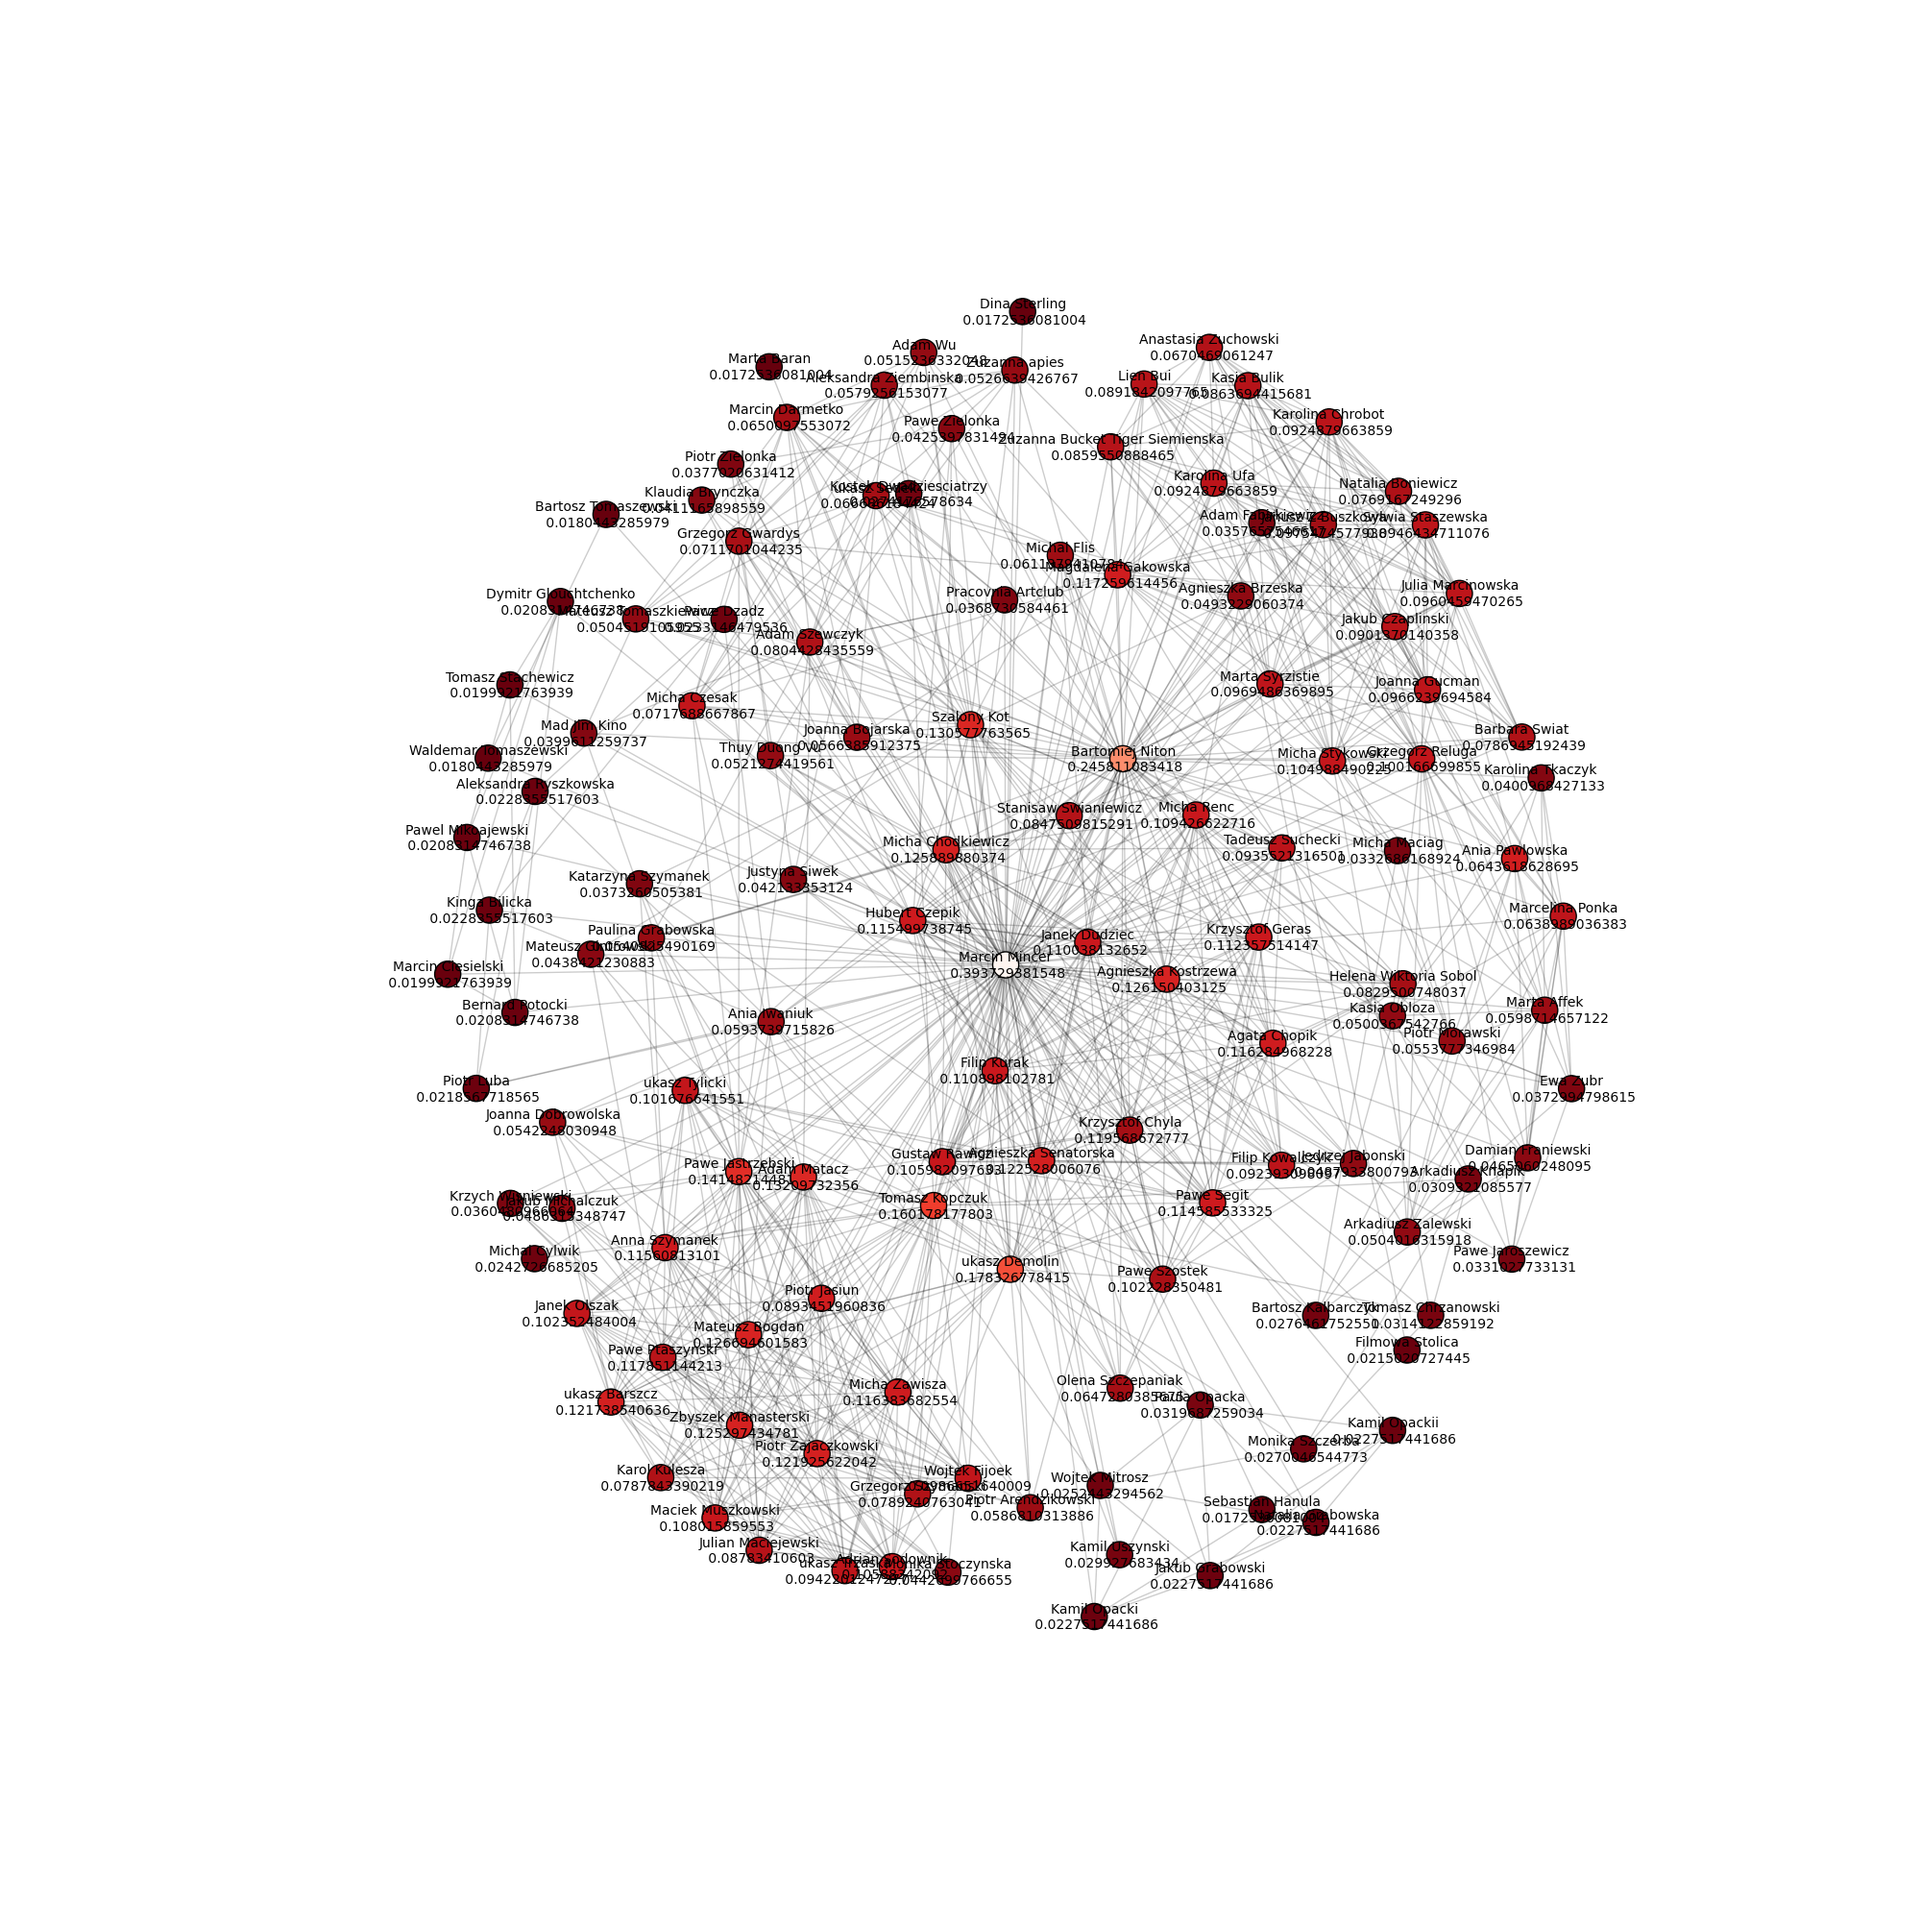
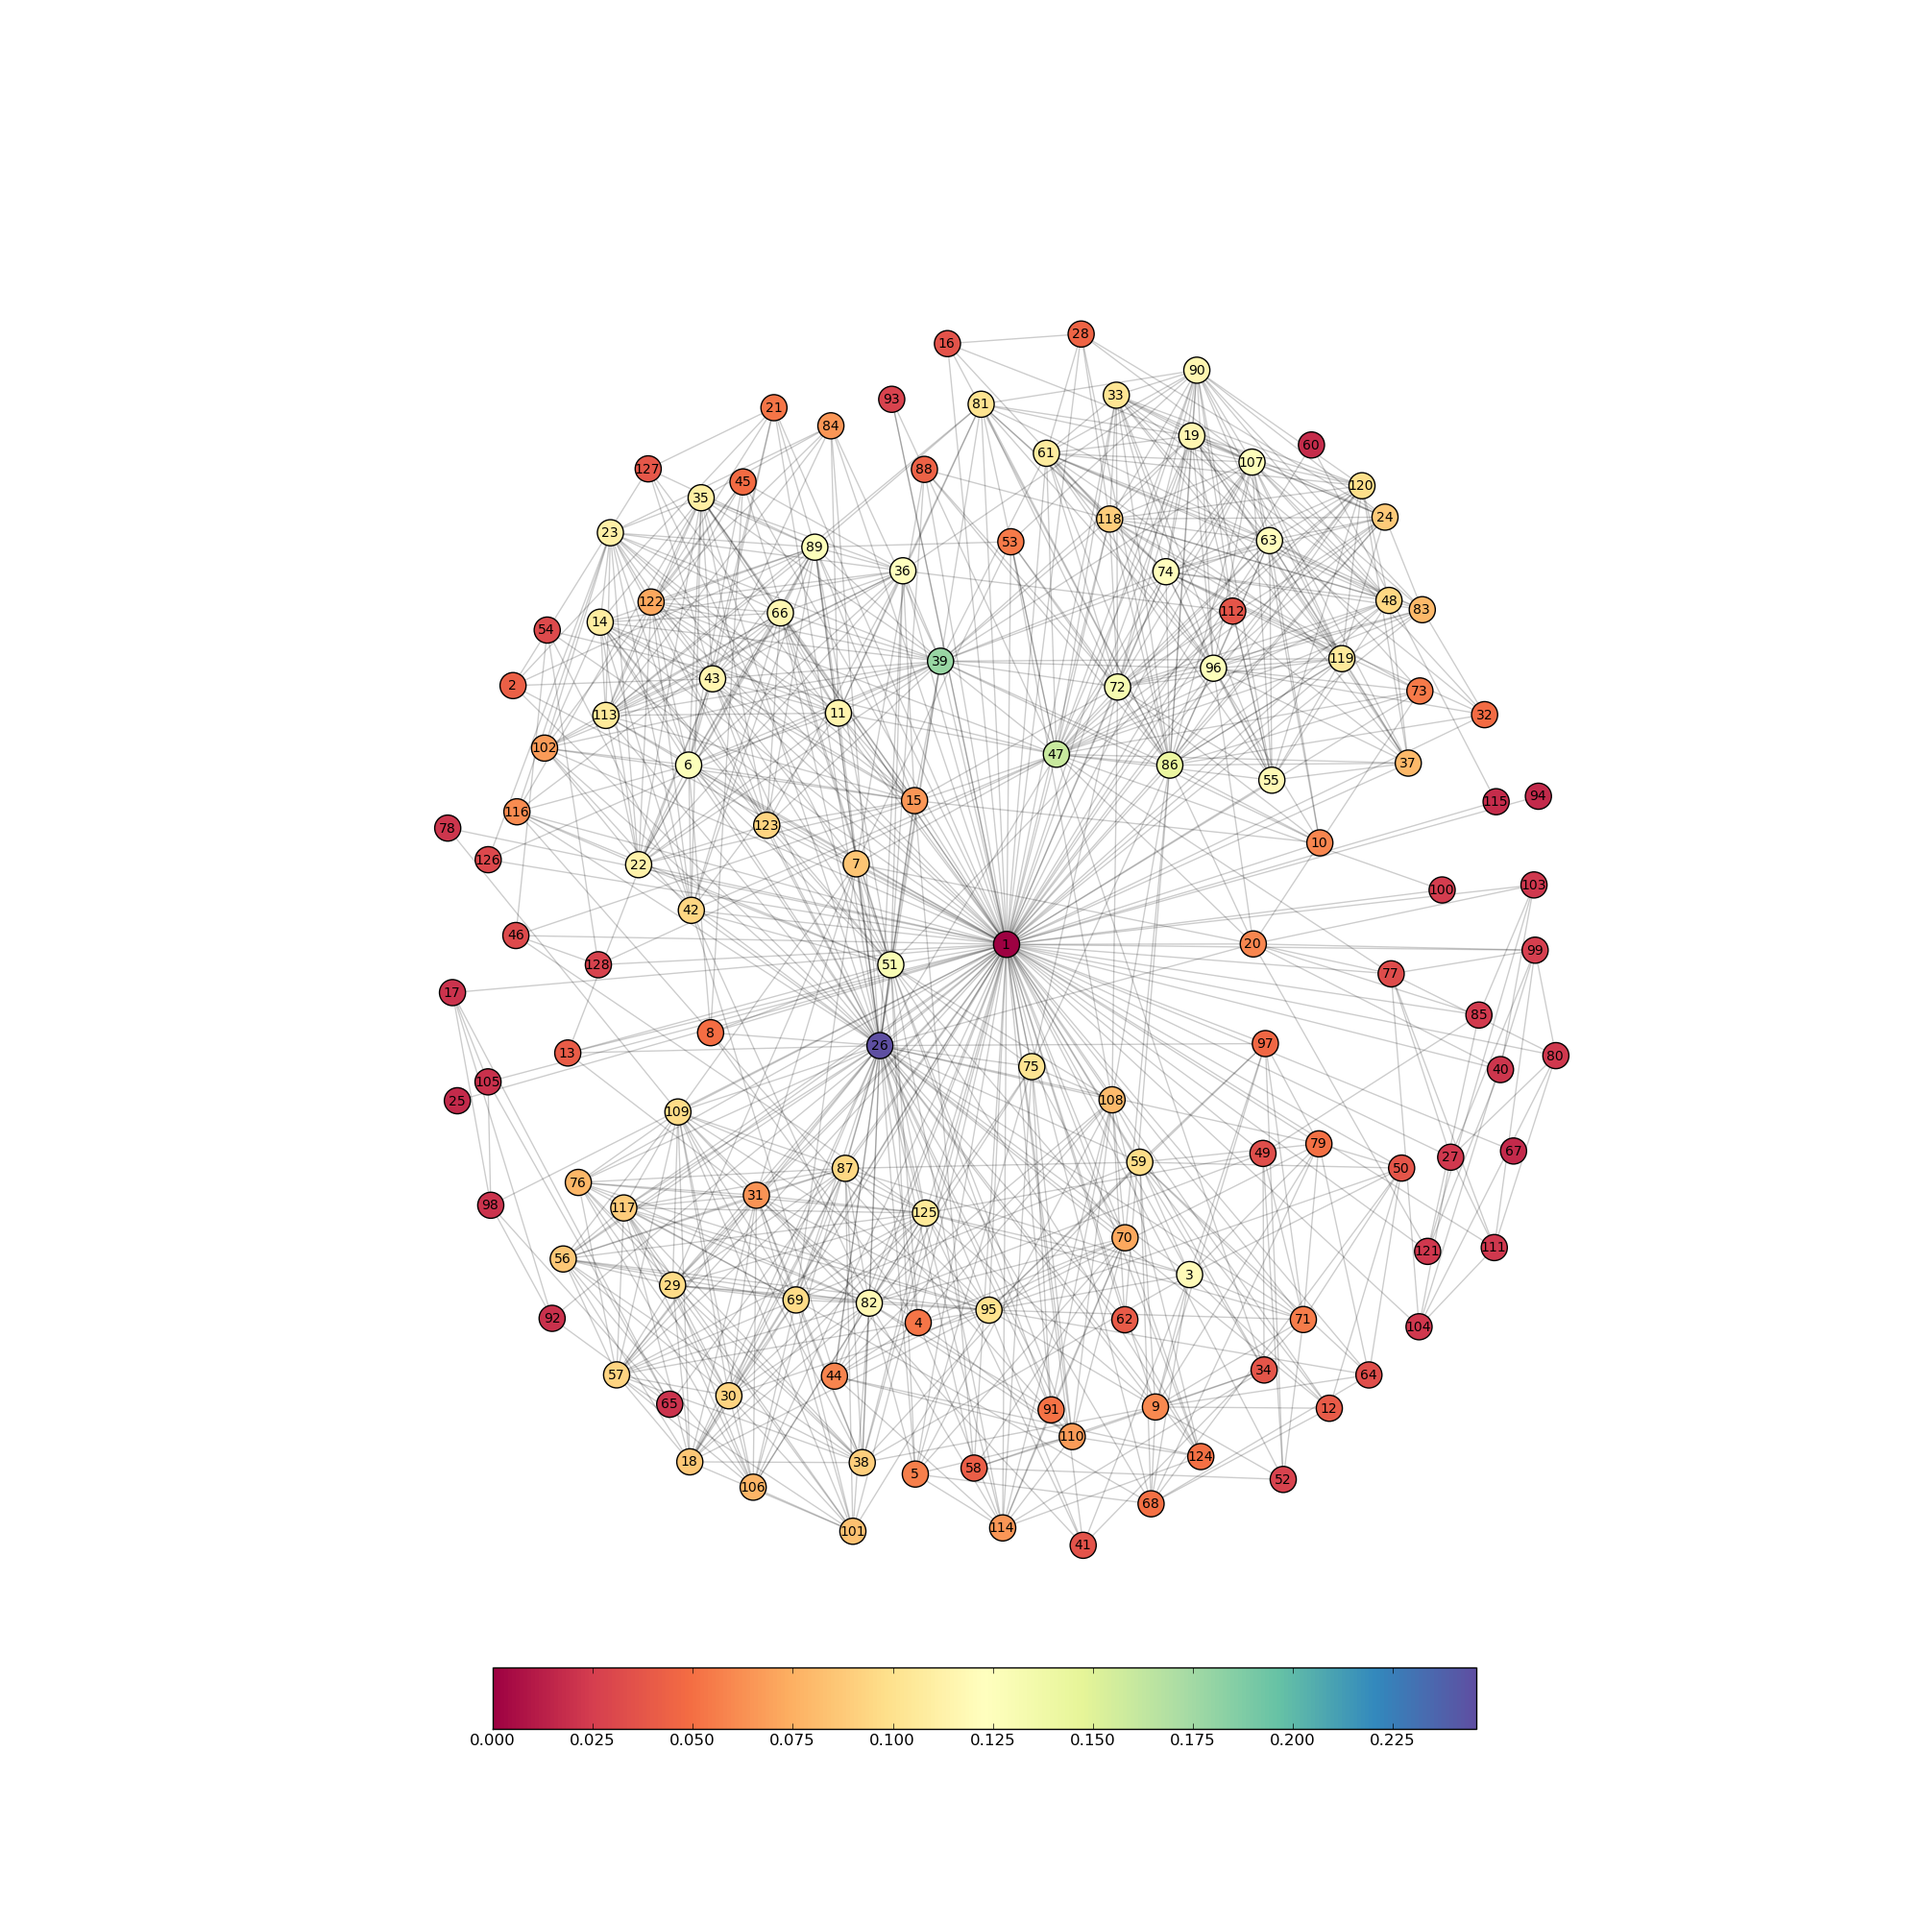
new pngs

Changed region(s): [[0.217, 0.155, 0.837, 0.93]]

diff --git a/src/thesis/fb.py b/src/thesis/fb.py
@@ -15,6 +15,7 @@ class Facebooker:
     
     graph = nx.Graph()
     myId = 0
+    labels = dict()
     
     def __init__(self):
         self.graph.add_node(self.myId, {'name': 'Marcin Mincer'})
@@ -42,6 +43,11 @@ class Facebooker:
         
     def loadGraph(self, filename = 'fb.gpickle'):
         self.graph = nx.read_gpickle(filename)
+        # make normal label numbers
+        i = 1
+        for node in self.graph:
+            self.labels[node] = i
+            i += 1 
         logger.debug("Graph loaded, edges: %d, nodes: %d" % (self.graph.number_of_edges(), self.graph.number_of_nodes()))
     
     def draw(self, filename = "fb.png"):
@@ -73,35 +79,31 @@ class Facebooker:
             
     def graphMeasure(self, measure = 'degree'):
         measureValues = self.centrality[measure]
+        
+       
+        
         filename = measure + ".png"
         
         # print sorted node list on INFO
         nodesDict = dict()
         for node, data in self.graph.nodes_iter(data=True):
-            nodesDict[data['name']] = measureValues[node]
+            nodesDict[node] = measureValues[node]
         sortedNodes = sorted(nodesDict, key=nodesDict.get, reverse = True)
         
         logger.info(measure)
-        for name in sortedNodes:
-            logger.info(name + ": " + str(nodesDict[name]))
-        # end print on info
+        for node in sortedNodes:
+            logger.info(self.graph.node[node]['name'] +" (" + str(self.labels[node]) + "): " + str(nodesDict[node]))
+            # set my value to 0 for better colors
+            if self.graph.node[node]['name'] == 'Marcin Mincer':
+                measureValues[node] = 0
         
-        # stupid graphViz utf-8 hack
+        
+
+        # stupid hack becouse of pygraphviz utf-8 malfunction
         graph_copy = nx.Graph();
         graph_copy.add_nodes_from(self.graph.nodes())
         graph_copy.add_edges_from(self.graph.edges())
         # end stupid hack
-        
-        # labels and graphs
-        labels = dict()
-        import unicodedata
-        for node, data in self.graph.nodes_iter(data=True):
-            name = unicode(data['name'])
-            name.replace(u"Ł", 'L')
-            name.replace(u"l", 'l')
-            labels[node] = unicodedata.normalize('NFKD', name).encode('ascii','ignore')
-            labels[node] += "\n " + str(measureValues[node])
-        # TODO: problem z łłłł :(((
         
         pos=nx.pygraphviz_layout(graph_copy,prog='neato')
         for i in pos:
@@ -109,14 +111,15 @@ class Facebooker:
         
         import matplotlib.pyplot as plt
         
+
+        
         plt.figure(figsize=(20,20))
         plt.axis('off')
         nx.draw_networkx_edges(self.graph,pos,alpha=0.2)
-        nx.draw_networkx_nodes(self.graph, pos, size = 4, with_labels=False, node_color=measureValues.values(), cmap=plt.cm.get_cmap('Reds_r'))
-        nx.draw_networkx_labels(self.graph, pos, font_size = 10, labels = labels)
-        
+        nx.draw_networkx_nodes(self.graph, pos, size = 4, with_labels=False, node_color=measureValues.values(), cmap=plt.cm.get_cmap('Spectral'))
+        nx.draw_networkx_labels(self.graph, pos, font_size = 10, labels = self.labels)
+        plt.colorbar(orientation="horizontal", fraction = 0.04, pad = 0.01, aspect = 16)
         plt.savefig(filename)
-        
         
             
     def partitionGraph(self, filename = "fb_partition.png", method = 'blondelAlgorithm'):
@@ -144,15 +147,6 @@ class Facebooker:
         graph_copy.add_edges_from(self.graph.edges())
         # end stupid hack
         
-        # labels
-        labels = dict()
-        import unicodedata
-        for node, data in self.graph.nodes_iter(data=True):
-            name = unicode(data['name'])
-            name.replace(u"Ł", 'L')
-            name.replace(u"l", 'l')
-            labels[node] = unicodedata.normalize('NFKD', name).encode('ascii','ignore')
-        # TODO: problem z łłłł :(((
         
         pos=nx.pygraphviz_layout(graph_copy,prog='neato')
         for i in pos:
@@ -163,7 +157,7 @@ class Facebooker:
         plt.axis('off')
         nx.draw_networkx_edges(self.graph,pos,alpha=0.2)
         nx.draw_networkx_nodes(self.graph, pos, size = 4, node_color=colorList, with_labels=False)
-        nx.draw_networkx_labels(self.graph, pos, font_size = 10, labels = labels)
+        nx.draw_networkx_labels(self.graph, pos, font_size = 10, labels = self.labels)
         
         plt.savefig(filename)
         

diff --git a/src/main.py b/src/main.py
@@ -92,6 +92,7 @@ def testTwo():
 def fbExperiment():
     fb = Facebooker()
     fb.loadGraph()
+#    fb.partitionGraph()
     fb.computeMeasures()
     fb.loadMeasures()
     fb.graphMeasure('clustering')
@@ -106,13 +107,14 @@ def fbExperiment():
 
 
 if __name__ == '__main__':
-    experimentOneCorrection()
+#    experimentOneCorrection()
     
 #    from thesis import experiment
-#    fbExperiment()
+    fbExperiment()
 #    experiment.karateClub()
 #    experiment.sixtyOne()
 #    experiment.generated()
+
 
 
 
